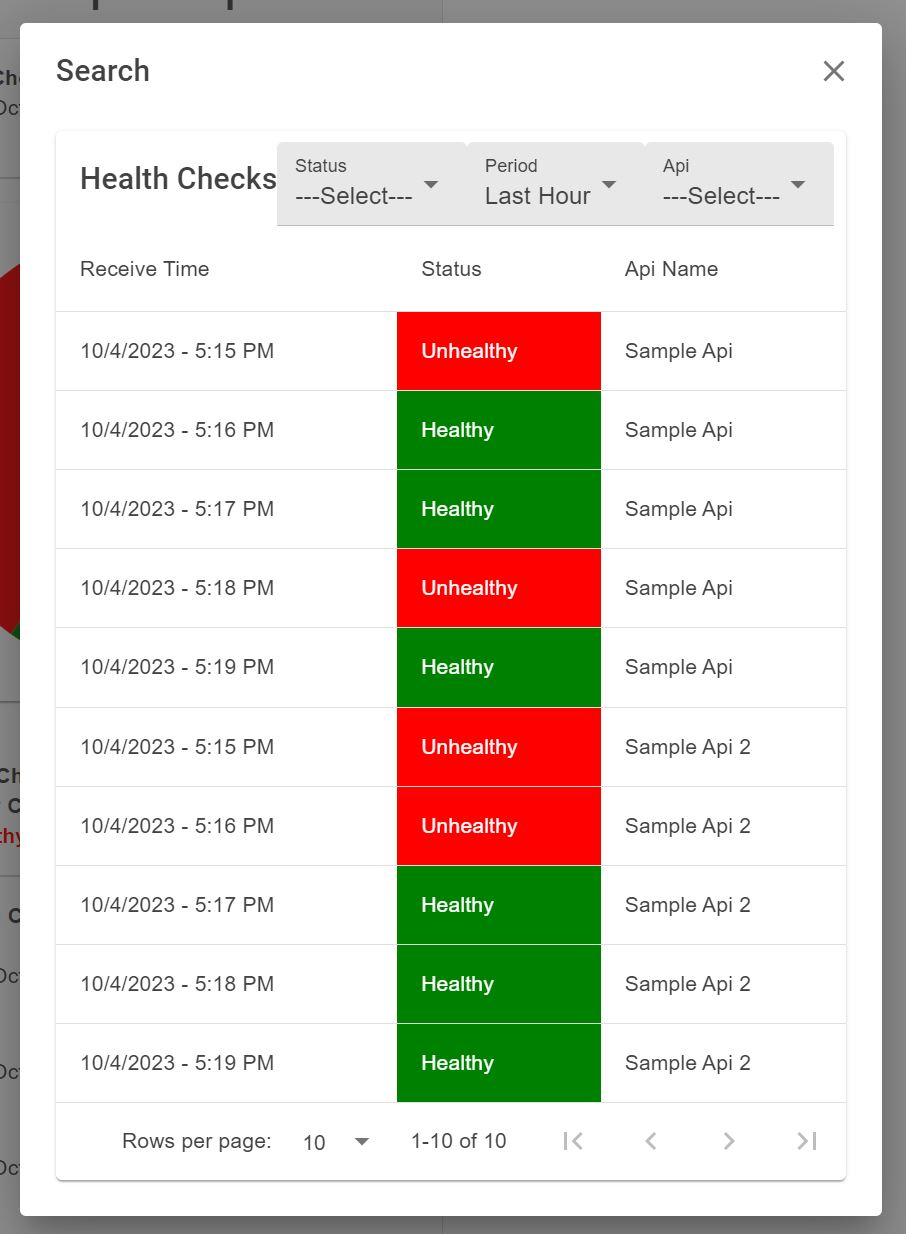
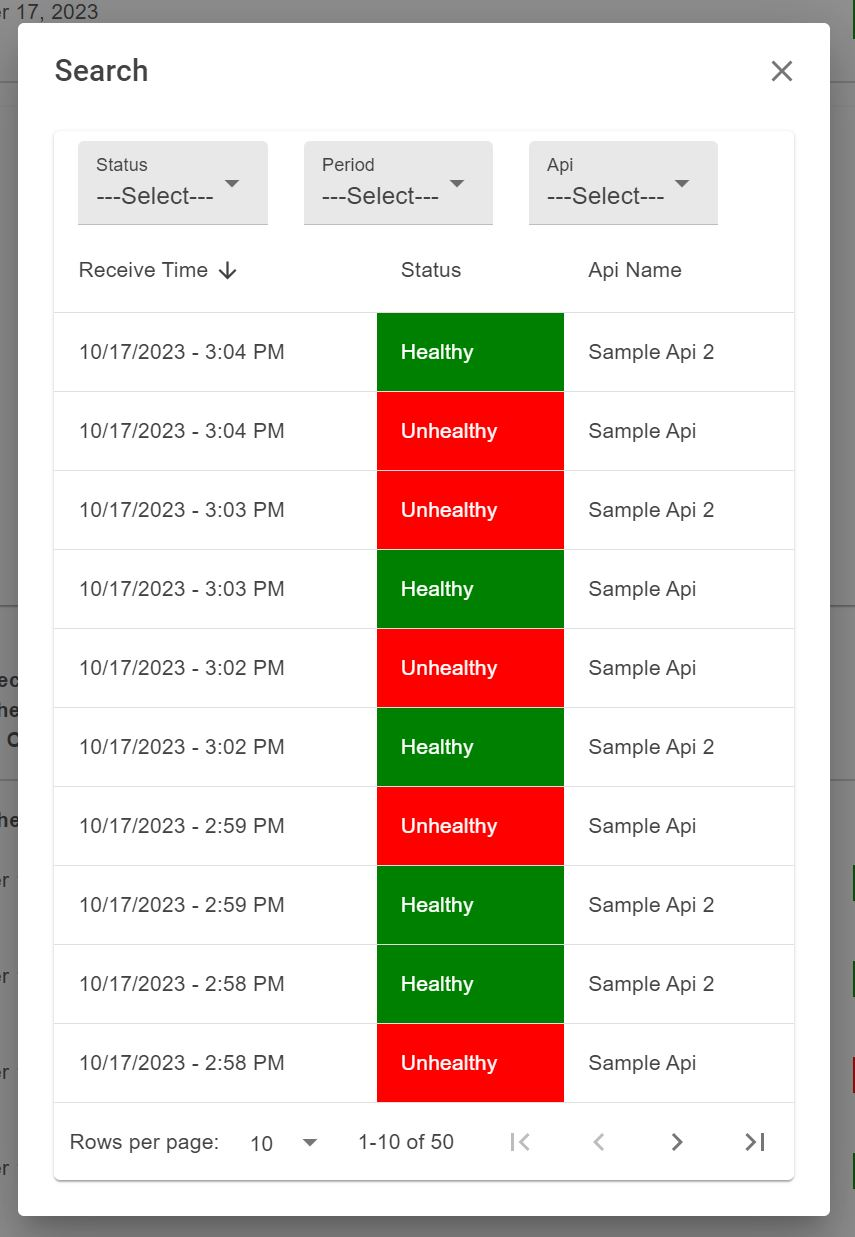
responsive for desktop, mobile. added delete functionality. updated readmes & images.

diff --git a/LiveHealthChecks.UI/Repository/MyHealthChecksRepository.cs b/LiveHealthChecks.UI/Repository/MyHealthChecksRepository.cs
@@ -8,6 +8,7 @@ namespace LiveHealthChecks.UI.Repository
         ValueTask<bool> ContainKeyAsync(string key, CancellationToken cancellationToken = default);
         ValueTask<List<HealthCheck>> GetHealthChecksDataAsync(string receiveMethod, CancellationToken cancellationToken = default);
         ValueTask SetHealthChecksDataAsync(string receiveMethod, List<HealthCheck> data, CancellationToken cancellationToken = default);
+        ValueTask DeleteHealthChecksAsync(int hours, params string[] receiveMethods);
     }
 
 
@@ -33,6 +34,32 @@ namespace LiveHealthChecks.UI.Repository
         public async ValueTask SetHealthChecksDataAsync(string receiveMethod, List<HealthCheck> data, CancellationToken cancellationToken = default)
         {
             await _localStorageService.SetItemAsync(receiveMethod, data, cancellationToken);
+        }
+
+        public async ValueTask DeleteHealthChecksAsync(int hours, params string[] receiveMethods)
+        {
+            if (hours == int.MaxValue)
+            {
+                receiveMethods.ToList().ForEach(async receiveMethod =>
+                {
+                    await _localStorageService.RemoveItemAsync(receiveMethod);
+                });
+
+                return;
+            }
+
+            var dateTime = DateTime.Now.AddHours(hours).ToUniversalTime();
+
+            receiveMethods.ToList().ForEach(async receiveMethod =>
+            {
+                var healthChecks = await GetHealthChecksDataAsync(receiveMethod);
+
+                healthChecks.RemoveAll(hc => hc.ReceiveTimeStamp > dateTime);
+
+                await SetHealthChecksDataAsync(receiveMethod, healthChecks);
+            });
+
+            await Task.CompletedTask;
         }
     }
 }

diff --git a/Docs/README_LiveHealthChecks.UI.md b/Docs/README_LiveHealthChecks.UI.md
@@ -3,7 +3,14 @@
 
 ## Dashboard
 
+### Desktop
+
 ![**Sample Monitoring web app - LiveHealthChecks.UI**](/Docs/LiveHealthChecks-UI.jpg)
+
+### Mobile
+
+![**Sample Monitoring web app - LiveHealthChecks.UI**](/Docs/LiveHealthChecks-UI-Mobile.jpg)
+
 
 ## Dashboard Settings
 
@@ -50,9 +57,15 @@ The web app also uses the **browser's local storage database** for storing the H
 
 received from the Server.
 
-Also, you can search this data in the Search popup (click on Search button on Dashboard).
+Also, you can search this data in the Search popup (click on Search button on App bar).
+
+### Desktop
 
 ![**Search**](/Docs/LiveHealthChecks-UI-Search.jpg)
+
+### Mobile
+
+![**Search**](/Docs/LiveHealthChecks-UI-Search-Mobile.jpg)
 
 You can click on a row in the table and a **View Health Check** popup comes up.
 
